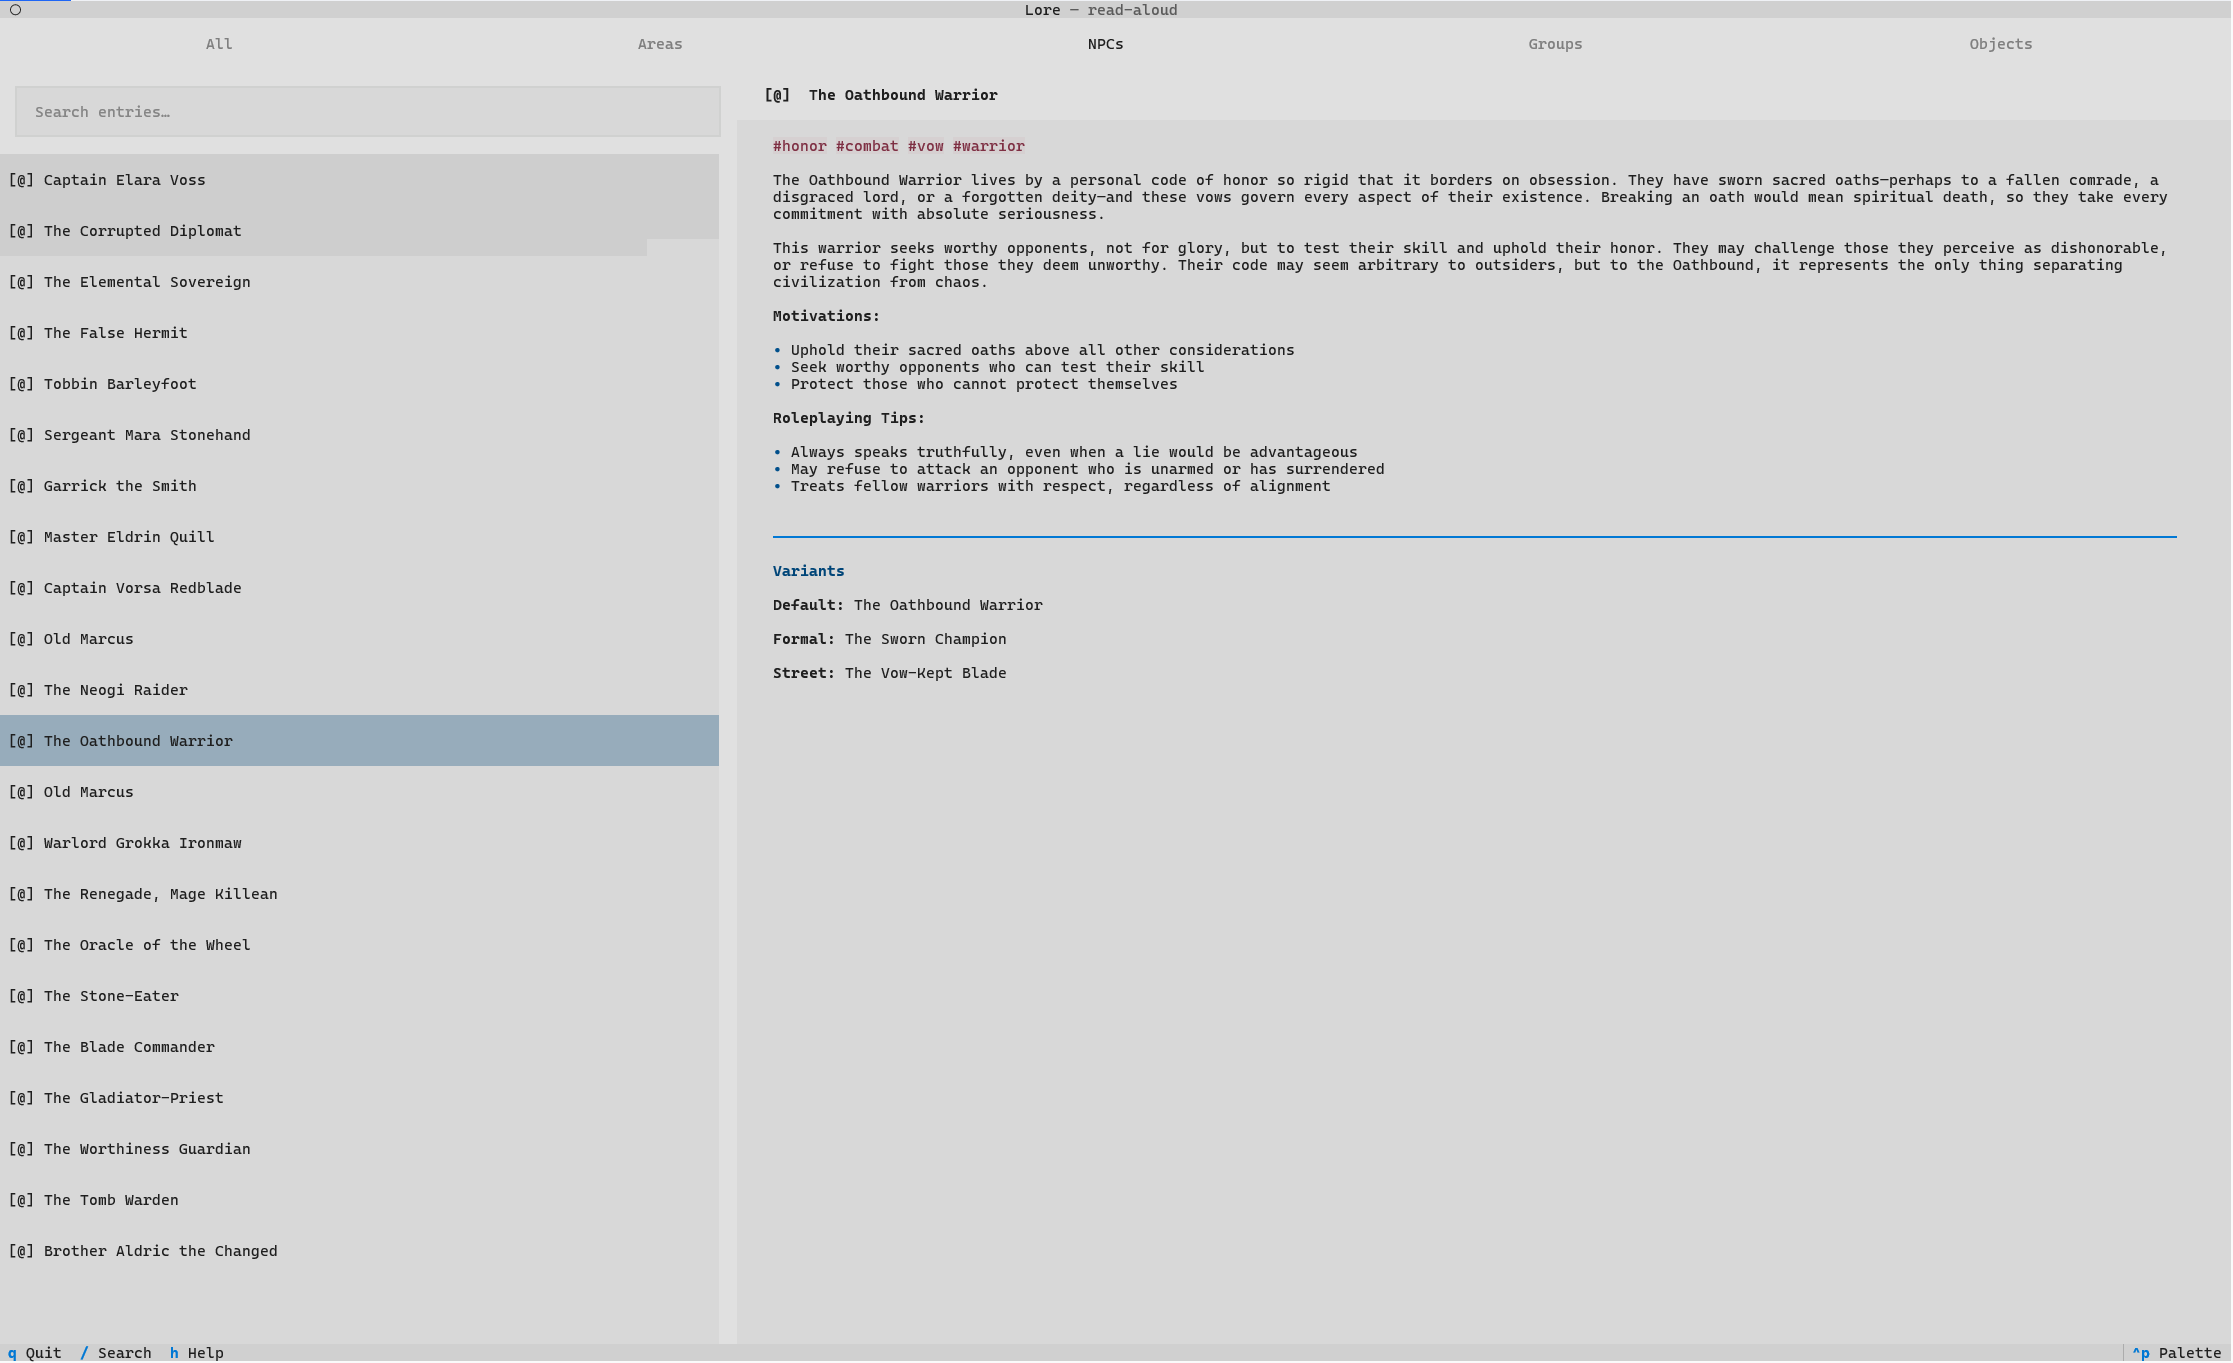
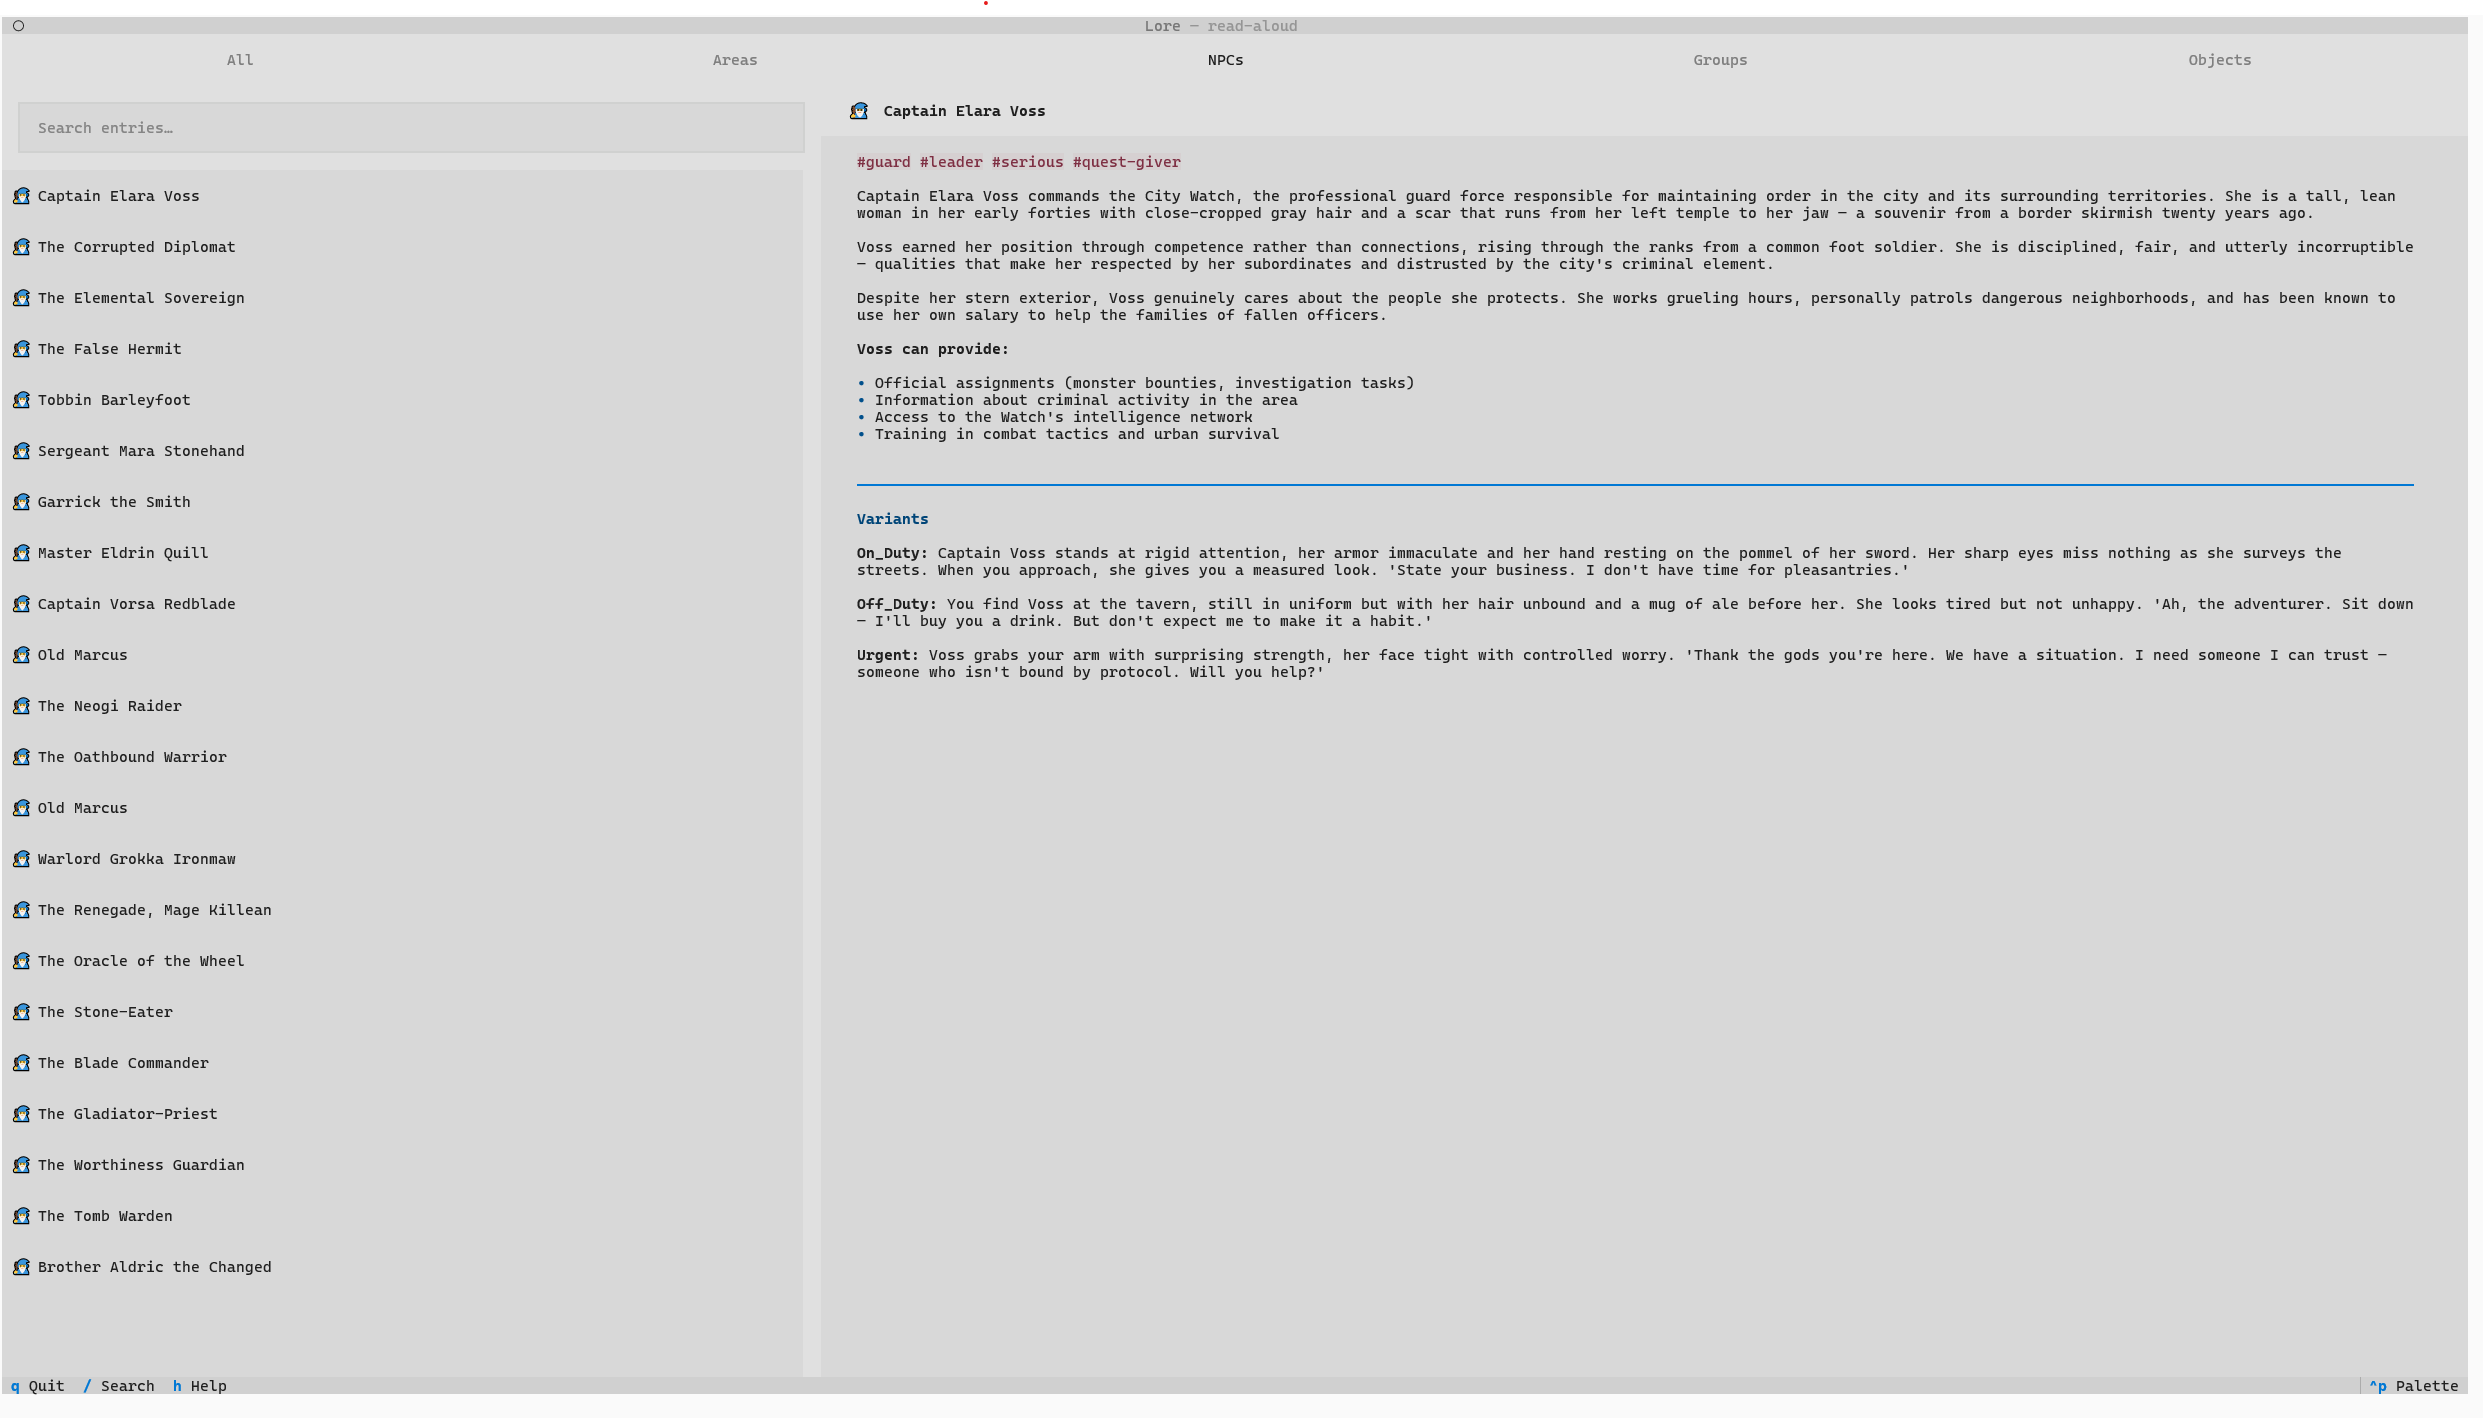
docs: update README screenshot and caption for light theme NPC view
- Replace docs/screenshot.png with new capture of Captain Elara Voss detail
- Expand alt text and add caption describing tabs, search list, and Variants

diff --git a/README.md b/README.md
@@ -5,7 +5,9 @@ A read-aloud companion for Dungeon Masters. Browse, search, and display ready-ma
 [![Latest Version](https://img.shields.io/github/v/release/daskas-welt/lore)](https://github.com/daskas-welt/lore/releases)
 [![Changelog](https://img.shields.io/badge/changelog-CHANGELOG.md-blue)](CHANGELOG.md)
 
-![Lore TUI](docs/screenshot.png)
+![Lore TUI — NPC detail view showing Captain Elara Voss with tags, description, and Variants in the light theme](docs/screenshot.png)
+
+> **Light theme — NPCs tab:** Left: searchable entry list; Right: selected entry (`Captain Elara Voss` / `#guard #leader #serious #quest-giver`) with markdown description, DM-reference bullets (*Voss can provide*), and `Variants` (`On_Duty` / `Off_Duty` / `Urgent`). Top tabs filter by `All` · `Areas` · `NPCs` · `Groups` · `Objects`; bottom bar shows `q Quit` · `/ Search` · `h Help` · `^p Palette`.
 
 ## About
 
